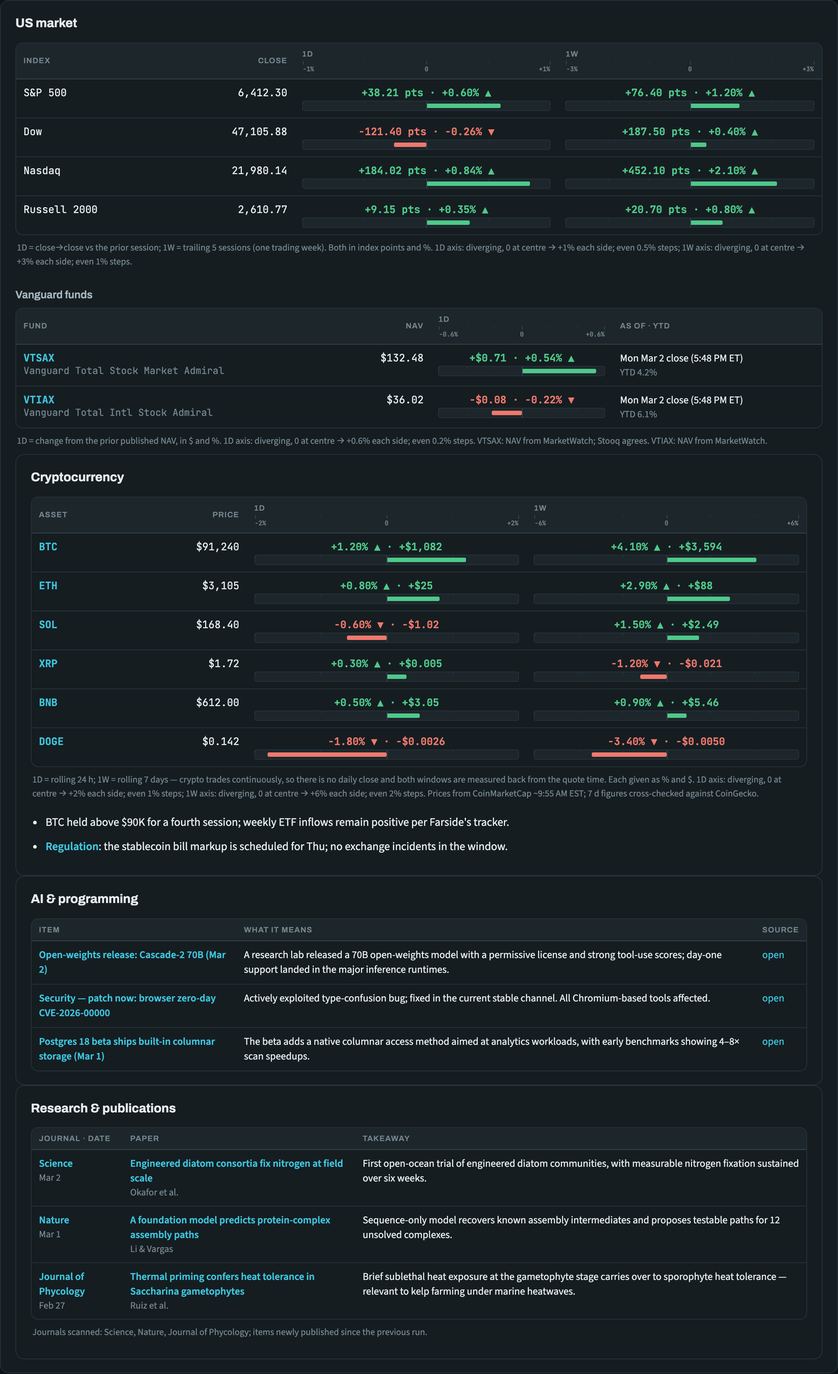
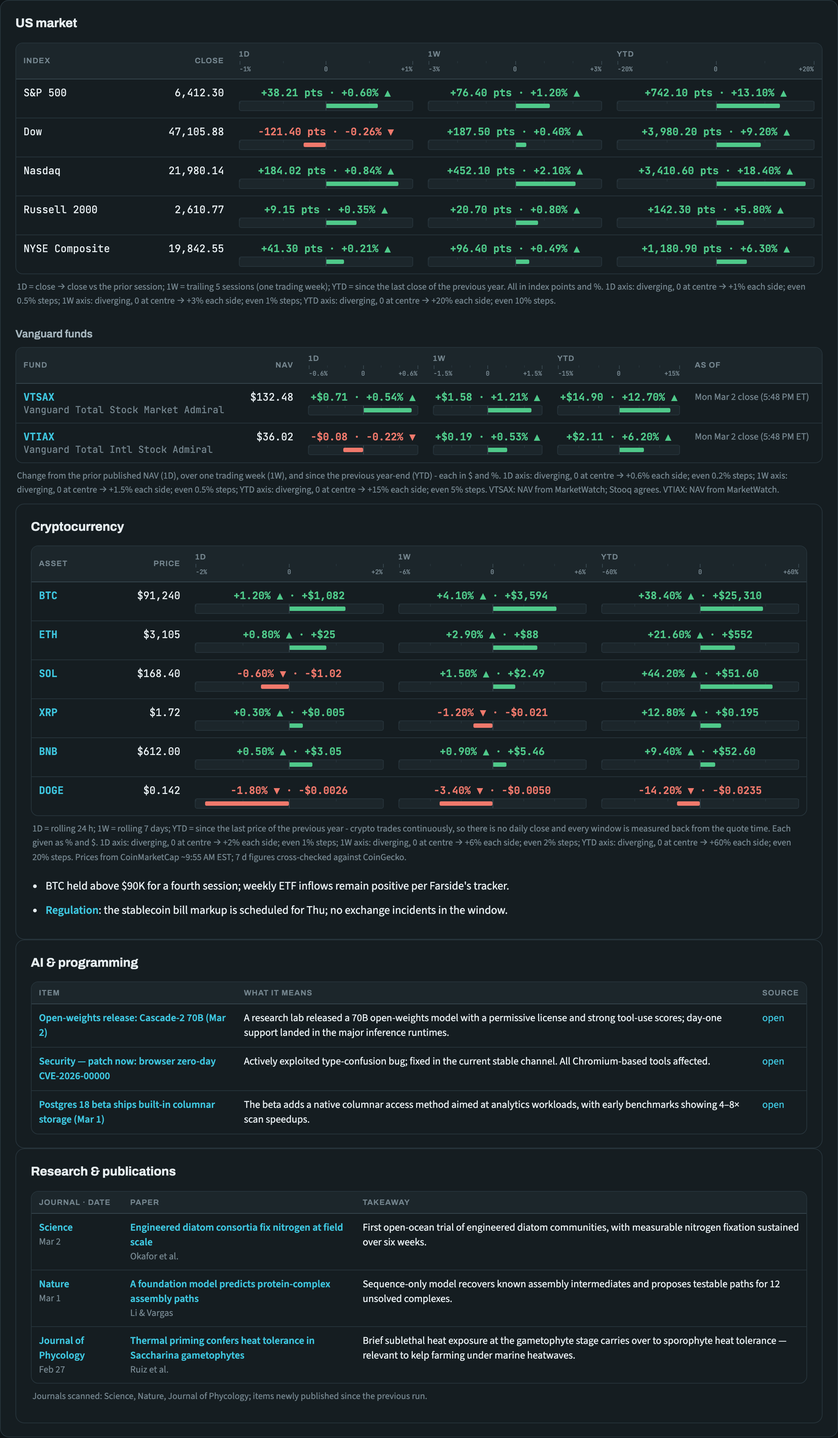
1D / 1W / YTD across all three market tables; space the arrows
Consistent horizons. US market, Vanguard funds and Cryptocurrency now all
carry 1D, 1W and YTD, each on its OWN even axis - a year's move dwarfs a
day's, and one shared scale would flatten 1D into nothing. Indexes and
funds gained the two missing horizons in the payload; funds' YTD changed
from a formatted string to a number so it can be plotted.

The file charts all three. The email is capped at three columns - a fourth
is about 85px on a phone - so it charts 1D and 1W and states YTD as a
figure in the first column, with the caption saying why. All three horizons
are present in all three outputs; only the chart affordance differs, and
only where the medium forbids it.

Added NYSE Composite to the index table.

Arrows are flanked by spaces: "close→close" read as one word, "close →
close" reads as a range. A test asserts no arrow anywhere is missing its
spaces.

The three extra bar columns pushed the email 2.7 KB over its 85 KB budget.
Reclaimed by hoisting font-size and line-height off every bar cell onto the
track table, where they inherit, and dropping a per-cell padding:0 that
cellpadding="0" already provides - verified byte-identical in visible
content. Now 86,538 B.

194 tests. Axis alignment re-measured across all nine axis/track pairs:
dx=0.0px, dwidth=0.0px.

diff --git a/brief/render.py b/brief/render.py
@@ -62,7 +62,11 @@ def _derive():
     g["MKT_7D"] = pct_axis([r[5] for r in MKT_ROWS])
     g["CRY_24"] = pct_axis([r[2] for r in CRYPTO_ROWS])
     g["CRY_7D"] = pct_axis([r[4] for r in CRYPTO_ROWS])
+    g["MKT_YTD"] = pct_axis([r[7] for r in MKT_ROWS])
+    g["CRY_YTD"] = pct_axis([r[6] for r in CRYPTO_ROWS])
     g["FUND_1D"] = pct_axis([r[4] for r in FUNDS])
+    g["FUND_1W"] = pct_axis([r[6] for r in FUNDS])
+    g["FUND_YTD"] = pct_axis([r[8] for r in FUNDS])
 
 
 def render_all(payload):
@@ -212,6 +216,19 @@ def detail_html_email(detail):
     for extra in lines[1:]:
         out.append(small(e(extra)))
     return "<br>".join(out)
+
+
+def horizon_cell_file(amount, pct, axis, unit="", reverse=False):
+    """One horizon's figure centred over its bar, for the standalone file.
+
+    `reverse` puts the percentage first, which reads better where the absolute
+    move is a price delta rather than index points.
+    """
+    cls = "dir-pos" if pct >= 0 else "dir-neg"
+    left = f"{pct_str(pct)} {arrow(pct)}" if reverse else f"{e(amount)}{' ' + unit if unit else ''}"
+    right = f"{e(amount)}" if reverse else f"{pct_str(pct)} {arrow(pct)}"
+    return (f'<span class="barfig"><span class="{cls} mono">{left} \u00b7 {right}</span></span>'
+            + bar_div(pct, axis))
 
 
 def money_amount(amt, cur, usd, sign):
@@ -493,30 +510,29 @@ footer{{margin-top:28px;font-size:12.5px;color:var(--ink-3);border-top:1px solid
             o.append('<tr>' + tdl("Carrier", e(car)) + tdl("Tracking", e(trk), "mono") + tdl("Sender \u00b7 item", e(item)) + tdl("Recipient", e(rcpt)) + tdl("Status", f'<span class="{done}">{e(st)}</span>', "meta") + tdl("Est. arrival", e(eta), "mono") + '</tr>')
         o.append(f'</tbody></table></div><p class="meta">{e(PKG_NOTE)}</p></div></section>')
     o.append('<section><div class="grid3">')
-    o.append(f'<div class="card wide"><h2>US market</h2><div class="tbl-wrap"><table><thead><tr><th>Index</th><th style="text-align:right">Close</th><th>1D{axis_div(MKT_24)}</th><th>1W{axis_div(MKT_7D)}</th></tr></thead><tbody>')
-    for n, c, p24, v24, p7, v7 in MKT_ROWS:
-        c24 = "dir-pos" if v24 >= 0 else "dir-neg"; c7 = "dir-pos" if v7 >= 0 else "dir-neg"
-        w24 = arrow(v24); w7 = arrow(v7)
+    o.append(f'<div class="card wide"><h2>US market</h2><div class="tbl-wrap"><table><thead><tr><th>Index</th><th style="text-align:right">Close</th><th>1D{axis_div(MKT_24)}</th><th>1W{axis_div(MKT_7D)}</th><th>YTD{axis_div(MKT_YTD)}</th></tr></thead><tbody>')
+    for n, c, p1, v1, p7, v7, py, vy in MKT_ROWS:
         o.append('<tr>' + tdl("Index", e(n), "mono") + tdl("Close", e(c), "num mono")
-                 + tdl("1D", f'<span class="barfig"><span class="{c24} mono">{e(p24)} pts · {pct_str(v24)} {w24}</span></span>{bar_div(v24, MKT_24)}')
-                 + tdl("1W", f'<span class="barfig"><span class="{c7} mono">{e(p7)} pts · {pct_str(v7)} {w7}</span></span>{bar_div(v7, MKT_7D)}') + '</tr>')
-    o.append(f'</tbody></table></div>{axis_foot(MKT_24, "1D move, % of prior close")}{axis_foot(MKT_7D, "1W move, % over 5 sessions")}<div class="cap">1D = close→close vs the prior session; 1W = trailing 5 sessions (one trading week). Both in index points and %. {axis_note(MKT_24, "1D axis")}; {axis_note(MKT_7D, "1W axis")}.</div>')
-    o.append(f'<h3>Vanguard funds</h3><div class="tbl-wrap"><table><thead><tr><th>Fund</th><th style="text-align:right">NAV</th><th>1D{axis_div(FUND_1D)}</th><th>As of · YTD</th></tr></thead><tbody>')
-    for tk, nm, nav, amt, pct, asof, ytd, note in FUNDS:
-        cls = "dir-pos" if pct >= 0 else "dir-neg"; word = arrow(pct)
+                 + tdl("1D", horizon_cell_file(p1, v1, MKT_24, "pts"))
+                 + tdl("1W", horizon_cell_file(p7, v7, MKT_7D, "pts"))
+                 + tdl("YTD", horizon_cell_file(py, vy, MKT_YTD, "pts")) + '</tr>')
+    o.append(f'</tbody></table></div>{axis_foot(MKT_24, "1D move, % of prior close")}{axis_foot(MKT_7D, "1W move, %")}{axis_foot(MKT_YTD, "YTD move, %")}<div class="cap">1D = close → close vs the prior session; 1W = trailing 5 sessions (one trading week); YTD = since the last close of the previous year. All in index points and %. {axis_note(MKT_24, "1D axis")}; {axis_note(MKT_7D, "1W axis")}; {axis_note(MKT_YTD, "YTD axis")}.</div>')
+    o.append(f'<h3>Vanguard funds</h3><div class="tbl-wrap"><table><thead><tr><th>Fund</th><th style="text-align:right">NAV</th><th>1D{axis_div(FUND_1D)}</th><th>1W{axis_div(FUND_1W)}</th><th>YTD{axis_div(FUND_YTD)}</th><th>As of</th></tr></thead><tbody>')
+    for tk, nm, nav, a1, v1, a7, v7, ay, vy, asof, note in FUNDS:
         o.append('<tr>' + tdl("Fund", f'<span class="lead">{e(tk)}</span><br><span class="meta">{e(nm)}</span>', "mono")
                  + tdl("NAV", e(nav), "num mono")
-                 + tdl("1D", f'<span class="barfig"><span class="{cls} mono">{e(amt)} · {pct_str(pct)} {word}</span></span>{bar_div(pct, FUND_1D)}')
-                 + tdl("As of · YTD", f'{e(asof)}<br><span class="meta">YTD {e(ytd)}</span>') + '</tr>')
-    o.append(f'</tbody></table></div>{axis_foot(FUND_1D, "1D NAV change, %")}<div class="cap">1D = change from the prior published NAV, in $ and %. {axis_note(FUND_1D, "1D axis")}. ' + e(" ".join(f"{tk}: {note}" for tk, nm, nav, amt, pct, asof, ytd, note in FUNDS)) + '</div>')
-    o.append(f'<div class="card wide"><h2>Cryptocurrency</h2><div class="tbl-wrap"><table><thead><tr><th>Asset</th><th style="text-align:right">Price</th><th>1D{axis_div(CRY_24)}</th><th>1W{axis_div(CRY_7D)}</th></tr></thead><tbody>')
-    for n, pr, v24, a24, v7, a7 in CRYPTO_ROWS:
-        c24 = "dir-pos" if v24 >= 0 else "dir-neg"; c7 = "dir-pos" if v7 >= 0 else "dir-neg"
-        w24 = arrow(v24); w7 = arrow(v7)
+                 + tdl("1D", horizon_cell_file(a1, v1, FUND_1D))
+                 + tdl("1W", horizon_cell_file(a7, v7, FUND_1W))
+                 + tdl("YTD", horizon_cell_file(ay, vy, FUND_YTD))
+                 + tdl("As of", f'<span class="meta">{e(asof)}</span>') + '</tr>')
+    o.append(f'</tbody></table></div>{axis_foot(FUND_1D, "1D NAV change, %")}{axis_foot(FUND_1W, "1W NAV change, %")}{axis_foot(FUND_YTD, "YTD NAV change, %")}<div class="cap">Change from the prior published NAV (1D), over one trading week (1W), and since the previous year-end (YTD) - each in $ and %. {axis_note(FUND_1D, "1D axis")}; {axis_note(FUND_1W, "1W axis")}; {axis_note(FUND_YTD, "YTD axis")}. ' + e(" ".join(f"{tk}: {note}" for tk, nm, nav, a1, v1, a7, v7, ay, vy, asof, note in FUNDS)) + '</div>')
+    o.append(f'<div class="card wide"><h2>Cryptocurrency</h2><div class="tbl-wrap"><table><thead><tr><th>Asset</th><th style="text-align:right">Price</th><th>1D{axis_div(CRY_24)}</th><th>1W{axis_div(CRY_7D)}</th><th>YTD{axis_div(CRY_YTD)}</th></tr></thead><tbody>')
+    for n, pr, v1, a1, v7, a7, vy, ay in CRYPTO_ROWS:
         o.append('<tr>' + tdl("Asset", f'<span class="lead">{e(n)}</span>', "mono") + tdl("Price", e(pr), "num mono")
-                 + tdl("1D", f'<span class="barfig"><span class="{c24} mono">{pct_str(v24)} {w24} · {e(a24)}</span></span>{bar_div(v24, CRY_24)}')
-                 + tdl("1W", f'<span class="barfig"><span class="{c7} mono">{pct_str(v7)} {w7} · {e(a7)}</span></span>{bar_div(v7, CRY_7D)}') + '</tr>')
-    o.append(f'</tbody></table></div>{axis_foot(CRY_24, "1D change, %")}{axis_foot(CRY_7D, "1W change, %")}<div class="cap">1D = rolling 24 h; 1W = rolling 7 days — crypto trades continuously, so there is no daily close and both windows are measured back from the quote time. Each given as % and $. {axis_note(CRY_24, "1D axis")}; {axis_note(CRY_7D, "1W axis")}. {e(CRYPTO_NOTE)}</div><ul>')
+                 + tdl("1D", horizon_cell_file(a1, v1, CRY_24, reverse=True))
+                 + tdl("1W", horizon_cell_file(a7, v7, CRY_7D, reverse=True))
+                 + tdl("YTD", horizon_cell_file(ay, vy, CRY_YTD, reverse=True)) + '</tr>')
+    o.append(f'</tbody></table></div>{axis_foot(CRY_24, "1D change, %")}{axis_foot(CRY_7D, "1W change, %")}{axis_foot(CRY_YTD, "YTD change, %")}<div class="cap">1D = rolling 24 h; 1W = rolling 7 days; YTD = since the last price of the previous year - crypto trades continuously, so there is no daily close and every window is measured back from the quote time. Each given as % and $. {axis_note(CRY_24, "1D axis")}; {axis_note(CRY_7D, "1W axis")}; {axis_note(CRY_YTD, "YTD axis")}. {e(CRYPTO_NOTE)}</div><ul>')
     for b in CRYPTO_BULLETS: o.append(li_lead(b))
     o.append('</ul></div>')
     o.append('<div class="card"><h2>AI &amp; programming</h2><div class="tbl-wrap"><table><thead><tr><th>Item</th><th>What it means</th><th>Source</th></tr></thead><tbody>')
@@ -624,10 +640,11 @@ def _seg(w, col): return f'<span style="display:inline-block;width:0;height:0;bo
 # path strips every `background`. Centre line = 0, left = negative, right =
 # positive. Both `width=` attributes and inline width survive the sanitizer.
 def _em_cell(pct, style):
-    return f'<td width="{pct:.1f}%" style="font-size:0;line-height:0;{style}"></td>'
+    # font-size / line-height are inherited from the track table
+    return f'<td width="{pct:.1f}%" style="{style}"></td>'
 def _em_half(cells, centre=False):
     edge = f'border-right:1px solid {L["lineS"]};' if centre else ""
-    return (f'<td width="50%" valign="middle" style="padding:0;{edge}">'
+    return (f'<td width="50%" valign="middle" style="{edge}">'
             f'<table width="100%" cellpadding="0" cellspacing="0" style="table-layout:fixed;border-collapse:collapse">'
             f'<tr>{cells}</tr></table></td>')
 def _em_track(left_cells, right_cells):
@@ -754,34 +771,32 @@ def email_html():
     # markets
     inner = h2("US market")
     rws = []
-    for n, c, p24, v24, p7, v7 in MKT_ROWS:
-        k24 = L["pos"] if v24 >= 0 else L["neg"]; k7 = L["pos"] if v7 >= 0 else L["neg"]
-        w24 = arrow(v24); w7 = arrow(v7)
-        rws.append([td(f'{lead(n)}<br>{small(e(c))}', mono=True),
-                    td(f'<div style="text-align:center">{sp(f"{e(p24)} pts · {pct_str(v24)} {w24}", k24)}</div>{em_bar_div(v24, MKT_24)}', mono=True),
-                    td(f'<div style="text-align:center">{sp(f"{e(p7)} pts · {pct_str(v7)} {w7}", k7)}</div>{em_bar_div(v7, MKT_7D)}', mono=True)])
-    inner += tbl(["Index · close", th_axis("1D", pct_labels(MKT_24)), th_axis("1W", pct_labels(MKT_7D))], rws, ["28%", "36%", "36%"]) + cap(f"1D = close→close vs the prior session; 1W = trailing 5 sessions (one trading week). Both in index points and %. {axis_note(MKT_24, '1D axis')}; {axis_note(MKT_7D, '1W axis')}.")
+    for n, c, p1, v1, p7, v7, py, vy in MKT_ROWS:
+        ky = L["pos"] if vy >= 0 else L["neg"]
+        rws.append([td(f'{lead(n)}<br>{small(e(c))}<br>{sp(f"YTD {pct_str(vy)} {arrow(vy)}", ky)}', mono=True),
+                    td(f'<div style="text-align:center">{sp(f"{e(p1)} pts · {pct_str(v1)} {arrow(v1)}", L["pos"] if v1 >= 0 else L["neg"])}</div>{em_bar_div(v1, MKT_24)}', mono=True),
+                    td(f'<div style="text-align:center">{sp(f"{e(p7)} pts · {pct_str(v7)} {arrow(v7)}", L["pos"] if v7 >= 0 else L["neg"])}</div>{em_bar_div(v7, MKT_7D)}', mono=True)])
+    inner += tbl(["Index · close · YTD", th_axis("1D", pct_labels(MKT_24)), th_axis("1W", pct_labels(MKT_7D))], rws, ["30%", "35%", "35%"]) + cap(f"1D = close → close vs the prior session; 1W = trailing 5 sessions; YTD = since the previous year-end, shown as a figure because the email is capped at three columns. {axis_note(MKT_24, '1D axis')}; {axis_note(MKT_7D, '1W axis')}.")
     inner += h3("Vanguard funds")
     rws = []
     rws = []
-    for tk, nm, nav, amt, pct, asof, ytd, note in FUNDS:
-        col = L["pos"] if pct >= 0 else L["neg"]; word = arrow(pct)
-        rws.append([td(f'{lead(tk)}<br>{small(e(nm))}', mono=True),
-                    td(f'{e(nav)}<div style="text-align:center">{sp(f"{e(amt)} · {pct_str(pct)} {word}", col)}</div>{em_bar_div(pct, FUND_1D)}', mono=True),
-                    td(f'{e(asof)}<br>{small("YTD " + e(ytd))}')])
-    inner += tbl(["Fund", th_axis("NAV · 1D", pct_labels(FUND_1D)), "As of · YTD"], rws, ["26%", "44%", "30%"]) + cap("1D = change from the prior published NAV, in $ and %. " + " ".join(f"{tk}: {note}" for tk, nm, nav, amt, pct, asof, ytd, note in FUNDS))
+    for tk, nm, nav, a1, v1, a7, v7, ay, vy, asof, note in FUNDS:
+        ky = L["pos"] if vy >= 0 else L["neg"]
+        rws.append([td(f'{lead(tk)}<br>{small(e(nav))}<br>{sp(f"YTD {pct_str(vy)} {arrow(vy)}", ky)}', mono=True),
+                    td(f'<div style="text-align:center">{sp(f"{e(a1)} · {pct_str(v1)} {arrow(v1)}", L["pos"] if v1 >= 0 else L["neg"])}</div>{em_bar_div(v1, FUND_1D)}', mono=True),
+                    td(f'<div style="text-align:center">{sp(f"{e(a7)} · {pct_str(v7)} {arrow(v7)}", L["pos"] if v7 >= 0 else L["neg"])}</div>{em_bar_div(v7, FUND_1W)}', mono=True)])
+    inner += tbl(["Fund · NAV · YTD", th_axis("1D", pct_labels(FUND_1D)), th_axis("1W", pct_labels(FUND_1W))], rws, ["30%", "35%", "35%"]) + cap("Change from the prior published NAV (1D), over one trading week (1W), and since the previous year-end (YTD). " + " ".join(f"{tk}: {note}" for tk, nm, nav, a1, v1, a7, v7, ay, vy, asof, note in FUNDS))
     inner += '<ul style="margin:8px 0 0;padding-left:20px">' + "".join(em_li(b) for b in MKT_BULLETS) + "</ul>"
     o.append(card(inner))
     # crypto
     inner = h2("Cryptocurrency")
     rws = []
-    for n, pr, v24, a24, v7, a7 in CRYPTO_ROWS:
-        k24 = L["pos"] if v24 >= 0 else L["neg"]; k7 = L["pos"] if v7 >= 0 else L["neg"]
-        w24 = arrow(v24); w7 = arrow(v7)
-        rws.append([td(f'{lead(n)}<br>{small(e(pr))}', mono=True),
-                    td(f'<div style="text-align:center">{sp(f"{pct_str(v24)} {w24} · {e(a24)}", k24)}</div>{em_bar_div(v24, CRY_24)}', mono=True),
-                    td(f'<div style="text-align:center">{sp(f"{pct_str(v7)} {w7} · {e(a7)}", k7)}</div>{em_bar_div(v7, CRY_7D)}', mono=True)])
-    inner += tbl(["Asset · price", th_axis("1D", pct_labels(CRY_24)), th_axis("1W", pct_labels(CRY_7D))], rws, ["28%", "36%", "36%"]) + cap(f"1D = rolling 24 h; 1W = rolling 7 days — crypto trades continuously, so there is no daily close and both windows are measured back from the quote time. Each given as % and $. {axis_note(CRY_24, '1D axis')}; {axis_note(CRY_7D, '1W axis')}. {CRYPTO_NOTE}")
+    for n, pr, v1, a1, v7, a7, vy, ay in CRYPTO_ROWS:
+        ky = L["pos"] if vy >= 0 else L["neg"]
+        rws.append([td(f'{lead(n)}<br>{small(e(pr))}<br>{sp(f"YTD {pct_str(vy)} {arrow(vy)}", ky)}', mono=True),
+                    td(f'<div style="text-align:center">{sp(f"{pct_str(v1)} {arrow(v1)} · {e(a1)}", L["pos"] if v1 >= 0 else L["neg"])}</div>{em_bar_div(v1, CRY_24)}', mono=True),
+                    td(f'<div style="text-align:center">{sp(f"{pct_str(v7)} {arrow(v7)} · {e(a7)}", L["pos"] if v7 >= 0 else L["neg"])}</div>{em_bar_div(v7, CRY_7D)}', mono=True)])
+    inner += tbl(["Asset · price · YTD", th_axis("1D", pct_labels(CRY_24)), th_axis("1W", pct_labels(CRY_7D))], rws, ["30%", "35%", "35%"]) + cap(f"1D = rolling 24 h; 1W = rolling 7 days; YTD = since the previous year-end — crypto trades continuously, so every window runs back from the quote time. {axis_note(CRY_24, '1D axis')}; {axis_note(CRY_7D, '1W axis')}. {CRYPTO_NOTE}")
     inner += '<ul style="margin:8px 0 0;padding-left:20px">' + "".join(em_li(b) for b in CRYPTO_BULLETS) + "</ul>"
     o.append(card(inner))
     # ai
@@ -865,18 +880,22 @@ def plain_text():
         for car, trk, item, rcpt, st, eta in PKG: A(f"  - {car} · {trk} · {item} · to {rcpt} · {st} · ETA {eta}")
         A("  " + PKG_NOTE)
     A(""); A("US MARKET (Fri Sep 4 close; Mon Sep 7 closed for Labor Day)")
-    for n, c, p24, v24, p7, v7 in MKT_ROWS:
-        A(f"  {n}: {c} | 1D {p24} pts, {pct_str(v24)} {'Up' if v24>=0 else 'Down'} | 1W {p7} pts, {pct_str(v7)} {'Up' if v7>=0 else 'Down'}")
-    A("  " + "1D = close→close vs the prior session; 1W = trailing 5 sessions (one trading week). Both in index points and %.")
+    for n, c, p1, v1, p7, v7, py, vy in MKT_ROWS:
+        A(f"  {n}: {c} | 1D {p1} pts, {pct_str(v1)} {'Up' if v1>=0 else 'Down'}"
+          f" | 1W {p7} pts, {pct_str(v7)} {'Up' if v7>=0 else 'Down'}"
+          f" | YTD {py} pts, {pct_str(vy)} {'Up' if vy>=0 else 'Down'}")
+    A("  " + "1D = close → close vs the prior session; 1W = trailing 5 sessions (one trading week). Both in index points and %.")
     A(f"  (1D axis ±{MKT_24[1]:g}%, step {MKT_24[0]:g}%; 1W axis ±{MKT_7D[1]:g}%, step {MKT_7D[0]:g}%.)")
     A("  Vanguard funds:")
-    for tk, nm, nav, amt, pct, asof, ytd, note in FUNDS:
-        A(f"    {tk} ({nm}): NAV {nav} · 1D {amt} · {pct_str(pct)} {'Up' if pct>=0 else 'Down'} · as of {asof} · YTD {ytd}. {note}")
+    for tk, nm, nav, a1, v1, a7, v7, ay, vy, asof, note in FUNDS:
+        A(f"    {tk} ({nm}): NAV {nav} | 1D {a1}, {pct_str(v1)} | 1W {a7}, {pct_str(v7)}"
+          f" | YTD {ay}, {pct_str(vy)} | as of {asof}. {note}")
     A(f"    (1D axis ±{FUND_1D[1]:g}%, step {FUND_1D[0]:g}%.)")
     for b in MKT_BULLETS: A(f"  - {b}")
     A(""); A("CRYPTOCURRENCY")
-    for n, pr, v24, a24, v7, a7 in CRYPTO_ROWS:
-        A(f"  {n}: {pr} | 1D {pct_str(v24)} {'Up' if v24>=0 else 'Down'} ({a24}) | 1W {pct_str(v7)} {'Up' if v7>=0 else 'Down'} ({a7})")
+    for n, pr, v1, a1, v7, a7, vy, ay in CRYPTO_ROWS:
+        A(f"  {n}: {pr} | 1D {pct_str(v1)} ({a1}) | 1W {pct_str(v7)} ({a7})"
+          f" | YTD {pct_str(vy)} ({ay})")
     A("  " + "1D = rolling 24 h; 1W = rolling 7 days — crypto trades continuously, so there is no daily close and both windows are measured back from the quote time.")
     A(f"  (1D axis ±{CRY_24[1]:g}%, step {CRY_24[0]:g}%; 1W axis ±{CRY_7D[1]:g}%, step {CRY_7D[0]:g}%.)")
     A("  (24 h and 7 d changes each as % and $.)")

diff --git a/tests/test_render_units.py b/tests/test_render_units.py
@@ -355,7 +355,7 @@ class TestAxisPathsNotInTheSample(unittest.TestCase):
                              "the axis must use decades, not the raw maximum")
 
     def test_single_row_tables_still_produce_an_even_axis(self):
-        p = payload(MKT_ROWS=[["ONLY", "1.00", "+0.01", 0.01, "+0.02", 0.02]])
+        p = payload(MKT_ROWS=[["ONLY", "1.00", "+0.01", 0.01, "+0.02", 0.02, "+0.05", 0.05]])
         f, _, _ = render_all(p)
         self.assertIn('class="daxis"', f)
 
@@ -376,7 +376,8 @@ class TestDeterminismAndIsolation(unittest.TestCase):
         """render_all binds the payload as module globals; a leak would show
         last run's rows in this run's brief."""
         first = render_all(payload())[0]
-        other = render_all(payload(MKT_ROWS=[["ONLY", "1.00", "+1.00", 0.10, "+2.00", 0.20]],
+        other = render_all(payload(MKT_ROWS=[["ONLY", "1.00", "+1.00", 0.10, "+2.00", 0.20,
+                                                 "+3.00", 0.30]],
                                    CRYPTO_ROWS=[]))[0]
         self.assertNotIn("Nasdaq", other, "previous payload's rows leaked into this render")
         self.assertIn("ONLY", other)
@@ -575,3 +576,63 @@ class TestNoMarkupLeaksAsText(unittest.TestCase):
             self.assertFalse(out.startswith("<li"), f"{fn.__name__} must not wrap in <li>")
             self.assertNotIn("</li>", out)
             self.assertIn("Fed", out)
+
+
+class TestThreeHorizons(unittest.TestCase):
+    """Every market table carries the same three horizons: 1D, 1W, YTD.
+
+    The file charts all three. The email is capped at three columns — a fourth
+    is about 85px on a phone — so it charts 1D and 1W and states YTD as a figure
+    in the first column. All three horizons are present everywhere; only the
+    chart affordance differs, and only where the medium forbids it.
+    """
+
+    TABLES = ("US market", "Vanguard funds", "Cryptocurrency")
+
+    def test_file_charts_all_three_horizons_in_every_table(self):
+        f, _, _ = render_all(payload())
+        for table in self.TABLES:
+            block = f.split(table)[1][:9000]
+            for horizon in ("1D", "1W", "YTD"):
+                self.assertIn(f">{horizon}<", block, f"{table}: no {horizon} column")
+            # three rulers and one track per horizon per row
+            self.assertGreaterEqual(block.count('class="daxis"'), 3,
+                                    f"{table}: each horizon needs its own ruler")
+
+    def test_each_horizon_gets_its_own_axis(self):
+        """A year's move dwarfs a day's; one shared scale would flatten 1D."""
+        from brief.render import render_all as _r
+        _r(payload())
+        import brief.render as R
+        self.assertGreater(R.MKT_YTD[1], R.MKT_7D[1], "YTD axis must be wider than 1W")
+        self.assertGreater(R.MKT_7D[1], R.MKT_24[1], "1W axis must be wider than 1D")
+        self.assertGreater(R.CRY_YTD[1], R.CRY_7D[1])
+        self.assertGreater(R.FUND_YTD[1], R.FUND_1D[1])
+
+    def test_email_states_ytd_in_the_first_column(self):
+        _, em, _ = render_all(payload())
+        for header in ("Index · close · YTD", "Fund · NAV · YTD", "Asset · price · YTD"):
+            self.assertIn(header, em, f"email missing {header!r}")
+        self.assertGreaterEqual(em.count("YTD "), 10, "every row needs its YTD figure")
+
+    def test_email_still_has_at_most_three_columns(self):
+        _, em, _ = render_all(payload())
+        counts = [len(re.findall(r"<th\b", row))
+                  for row in re.findall(r"<tr>(.*?)</tr>", em, re.S)]
+        self.assertTrue(all(c <= 3 for c in counts), f"saw {max(counts or [0])} columns")
+
+    def test_plain_text_carries_all_three(self):
+        _, _, tx = render_all(payload())
+        for probe in ("1D", "1W", "YTD"):
+            self.assertIn(probe, tx)
+
+    def test_email_stays_within_budget_with_three_horizons(self):
+        _, em, _ = render_all(payload())
+        size = len(em.encode("utf-8"))
+        self.assertLess(size, 85 * 1024, f"email is {size:,} B, over the Gmail budget")
+
+    def test_arrows_are_flanked_by_spaces(self):
+        """"close→close" reads as one word; "close → close" reads as a range."""
+        f, em, tx = render_all(payload())
+        for out in (f, em, tx):
+            self.assertNotRegex(out, r"[^\s>]→[^\s<]", "an arrow is missing its spaces")

diff --git a/tests/test_email_brief.py b/tests/test_email_brief.py
@@ -120,14 +120,16 @@ class TestGeneratorOutputs(unittest.TestCase):
         self.assertRegex(page, r"\+\d+\.\d{2}% \u25b2")
         self.assertRegex(page, r"\u2212\d+\.\d{2}% \u25bc")
 
-    def test_fund_rows_carry_a_change_bar_on_an_even_axis(self):
+    def test_fund_rows_carry_change_bars_on_even_axes(self):
         page, em = self.r["page"], self.r["email"]
-        funds = page.split("Vanguard funds")[1][:4000]
-        self.assertIn('class="dbar"', funds, "fund rows must carry a 1D change bar")
-        self.assertIn('class="daxis"', funds, "the fund bar column needs its own ruler")
-        self.assertIn("1D axis", page)
-        # the email states the same axis as text above its bars
-        self.assertIn("NAV · 1D", em)
+        funds = page.split("Vanguard funds")[1][:6000]
+        self.assertIn('class="dbar"', funds, "fund rows must carry change bars")
+        self.assertIn('class="daxis"', funds, "each fund bar column needs its own ruler")
+        for horizon in ("1D", "1W", "YTD"):
+            self.assertIn(horizon, funds, f"funds missing {horizon}")
+            self.assertIn(f"{horizon} axis", page)
+        # the email is capped at three columns, so YTD rides in the first one
+        self.assertIn("Fund · NAV · YTD", em)
 
     def test_plain_text_is_a_full_fallback_not_a_stub(self):
         self.assertGreater(len(self.r["text"]), 4000)
@@ -225,7 +227,7 @@ class TestGeneratorOutputs(unittest.TestCase):
         self.assertLess(tx.index("NEEDS YOU TODAY"), tx.index("1. HIGH PRIORITY"))
         self.assertLess(tx.index("1. HIGH PRIORITY"), tx.index("2. RELEVANT JOB POSTS"))
 
-    def test_market_and_crypto_carry_1d_and_1w_bars(self):
+    def test_market_and_crypto_carry_1d_1w_and_ytd(self):
         """Both tables, both horizons, same bar scheme, separate even axes, and
         labels that are true of BOTH asset classes — an equity move is never
         '24H' (Fri->Mon close is ~65 hours)."""
@@ -233,10 +235,10 @@ class TestGeneratorOutputs(unittest.TestCase):
         for out in (page, em):
             for sec in ("US market", "Cryptocurrency"):
                 block = out.split(sec)[1][:6000]
-                self.assertIn("1D", block, f"{sec} missing the 1D column")
-                self.assertIn("1W", block, f"{sec} missing the 1W column")
+                for horizon in ("1D", "1W", "YTD"):
+                    self.assertIn(horizon, block, f"{sec} missing {horizon}")
         # the precise mechanics live in each table's own caption
-        self.assertIn("close→close vs the prior session", page)
+        self.assertIn("close → close vs the prior session", page)
         self.assertIn("trailing 5 sessions", page)
         self.assertIn("rolling 24 h", page)
         self.assertIn("no daily close", page)

diff --git a/brief/model.py b/brief/model.py
@@ -40,10 +40,10 @@ SPEC = {
     "PKG":        ("rows", 6, "shipments: (carrier, tracking, item, recipient, status, eta)"),
     "PKG_NOTE":   ("str", None, "package section note"),
     "RETAIL":     ("obj", ("sub", "rewards", "items"), "retail: subtitle, rewards line, offer rows"),
-    "MKT_ROWS":   ("rows", 6, "indexes: (name, close, pts1d, pct1d, pts1w, pct1w)"),
-    "FUNDS":      ("rows", 8, "funds: (ticker, name, nav, chg_amount, chg_pct, asof, ytd, note)"),
+    "MKT_ROWS":   ("rows", 8, "indexes: (name, close, pts1d, pct1d, pts1w, pct1w, pts_ytd, pct_ytd)"),
+    "FUNDS":      ("rows", 11, "funds: (ticker, name, nav, amt1d, pct1d, amt1w, pct1w, amt_ytd, pct_ytd, asof, note)"),
     "MKT_BULLETS": ("list", None, "market bullets"),
-    "CRYPTO_ROWS": ("rows", 6, "coins: (name, price, pct1d, amt1d, pct1w, amt1w)"),
+    "CRYPTO_ROWS": ("rows", 8, "coins: (name, price, pct1d, amt1d, pct1w, amt1w, pct_ytd, amt_ytd)"),
     "CRYPTO_NOTE": ("str", None, "crypto sourcing note"),
     "CRYPTO_BULLETS": ("list", None, "crypto bullets"),
     "AI_ITEMS":   ("rows", 3, "AI items: (title, detail, link)"),
@@ -167,7 +167,8 @@ def validate(payload):
                               f"{row[5]!r} — the fit tier depends on the owner's "
                               "interests, so the run must decide it; the renderer cannot")
 
-    for key, idx in (("MKT_ROWS", (3, 5)), ("CRYPTO_ROWS", (2, 4)), ("FUNDS", (4,))):
+    for key, idx in (("MKT_ROWS", (3, 5, 7)), ("CRYPTO_ROWS", (2, 4, 6)),
+                     ("FUNDS", (4, 6, 8))):
         for n, row in enumerate(payload[key]):
             for i in idx:
                 if not isinstance(row[i], (int, float)):
